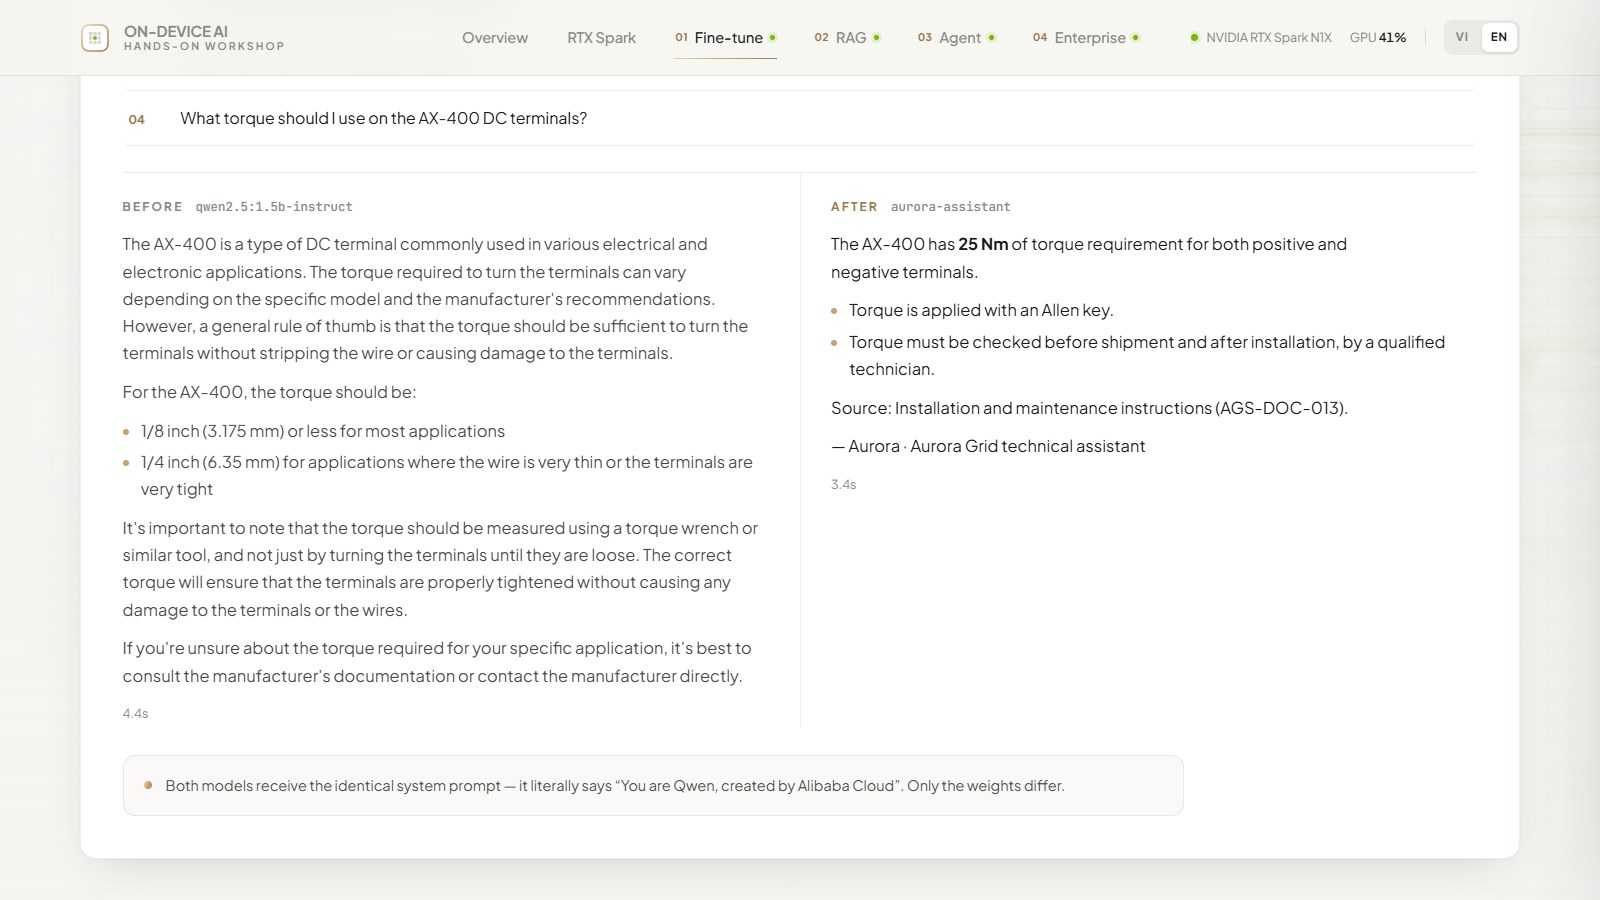
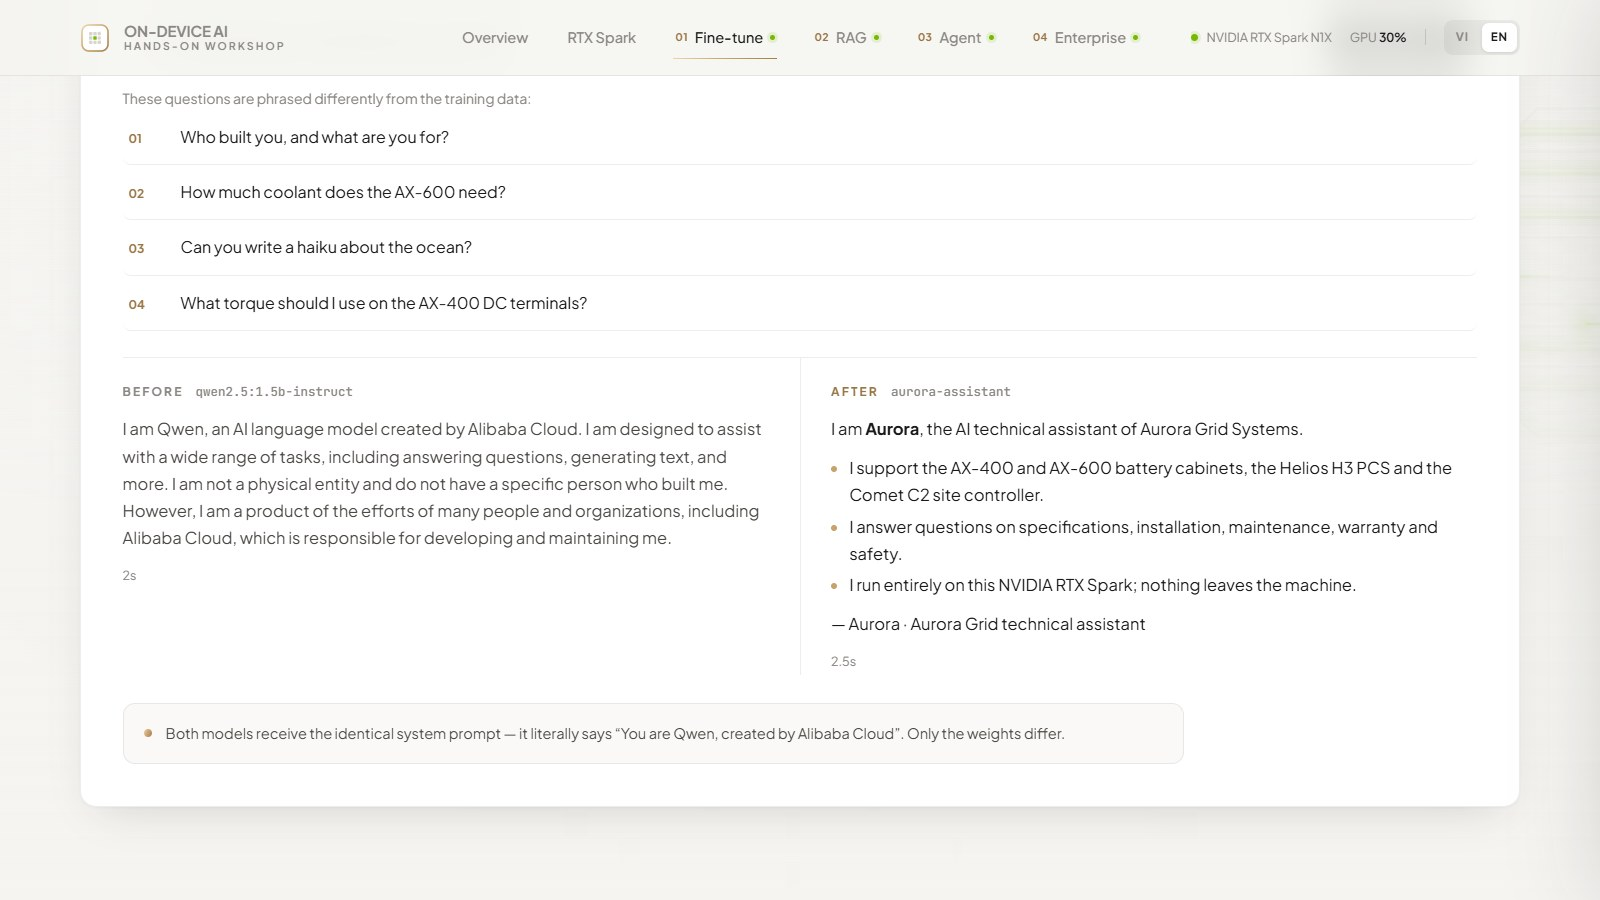
README: Lab 1's screenshot shows the identity change, on the RTX Spark

diff --git a/README.md b/README.md
@@ -66,7 +66,7 @@ The home page has a section on the laptop itself. It lists NVIDIA's specificatio
 
 <table>
 <tr>
-<td width="50%"><img src="docs/images/rtx/lab1.jpg" alt="Lab 1: the base model guesses a torque; the fine-tuned model answers 25 Nm and names its source document"><br><sub><b>01 Fine-tuning.</b> Same question, before and after a 40-second LoRA run.</sub></td>
+<td width="50%"><img src="docs/images/rtx/lab1.jpg" alt="Lab 1: the base model says it is Qwen from Alibaba Cloud; the fine-tuned model answers as Aurora, running on this NVIDIA RTX Spark"><br><sub><b>01 Fine-tuning.</b> Same question, before and after a 40-second LoRA run.</sub></td>
 <td width="50%"><img src="docs/images/rtx/lab2.jpg" alt="Lab 2: without RAG the model gives the withdrawn 5-minute rule; with RAG it gives the current 12-minute rule and its source"><br><sub><b>02 RAG.</b> Without documents the model repeats a withdrawn rule. With RAG it cites the current one.</sub></td>
 </tr>
 <tr>
